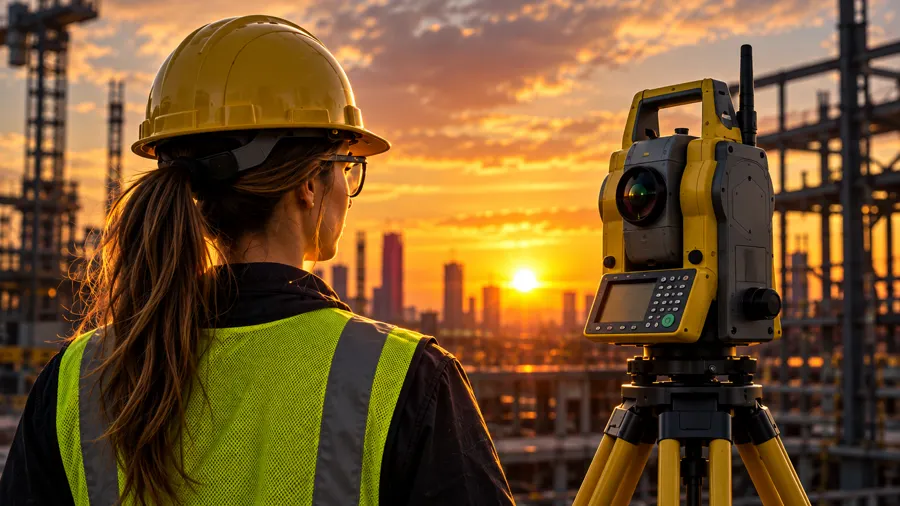
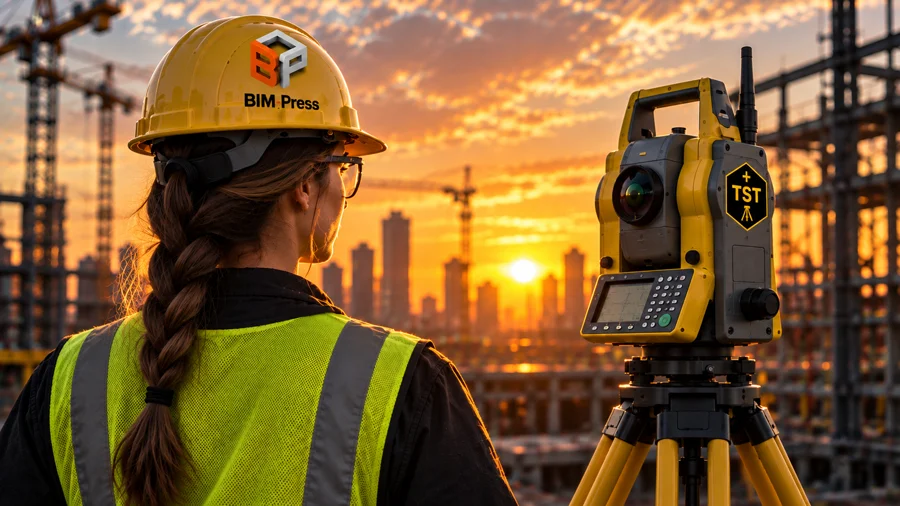
New hero photo, remove old Games section, Instagram link, trust bar wording
- Hero images regenerated from braid_logo.png (BIM Press hard hat, TST
  badge on instrument); phone crop re-centered so both logos stay visible.
- Remove duplicate Games & Training section; More Games and search now
  point to #apps.
- Instagram button links to instagram.com/totalstationtech.
- Trust bar: "Serving MEP professionals".

diff --git a/Website/index.html b/Website/index.html
@@ -331,9 +331,9 @@
   @media (max-width:768px){
     .hero-bg, .hero-aside{display:none;}
     .hero-photo{left:0;right:0;width:100%;aspect-ratio:auto;transform:none;-webkit-mask-image:none;mask-image:none;}
-    .hero-photo img{object-position:36% 30%;}
+    .hero-photo img{object-position:55% 30%;} /* keeps both the hard hat logo and the TST badge on the instrument in frame */
     .hero::after{background:linear-gradient(180deg,rgba(12,12,13,0) 30%,rgba(12,12,13,0.5) 58%,rgba(12,12,13,0.93) 100%);}
-    .hero-inner{min-height:clamp(340px,100vw,600px);padding:24px 20px 22px;align-items:flex-end;}
+    .hero-inner{min-height:clamp(300px,80vw,560px);padding:24px 20px 22px;align-items:flex-end;}
     .hero-copy{flex:1 1 auto;}
     .hero h1{text-transform:none;font-weight:800;font-size:clamp(26px,8.4vw,48px);line-height:1.04;letter-spacing:-0.01em;}
     .hero-rule{width:100%;height:2px;margin:12px 0 10px;clip-path:none;background:var(--yellow);}
@@ -483,15 +483,6 @@
   .card p{margin:0;color:var(--gray);font-size:0.9rem;flex-grow:1;}
   .card .btn{align-self:flex-start;margin-top:4px;}
 
-  /* Games & Training: a hazard stripe on top sets it apart from Apps.
-     Grid fills the row with however many games exist (2 now, 3 across max as more are added). */
-  .games-section{position:relative;background:radial-gradient(ellipse at 90% 0%, rgba(245,197,24,0.08), transparent 55%), var(--black);}
-  .games-section::before{content:"";position:absolute;top:0;left:0;right:0;height:4px;background:var(--stripe);opacity:0.7;}
-  .grid-games{grid-template-columns:repeat(auto-fit, minmax(300px, 1fr));}
-  @media (min-width:1000px){.grid-games{grid-template-columns:repeat(auto-fit, minmax(340px, 1fr));}}
-  @media (max-width:620px){.grid-games{grid-template-columns:1fr;}}
-  .games-section .card{border-color:var(--yellow-dim);padding:30px;}
-  .games-section .card h3{font-size:1.35rem;font-family:'Oswald',system-ui,sans-serif;text-transform:uppercase;letter-spacing:0.04em;}
 
   /* Promo video popup (uses the browser's built-in <dialog>) */
   .video-modal{
@@ -629,8 +620,8 @@
         </div>
         <div class="social-links">
           <a href="https://www.youtube.com/@TotalStationTech" target="_blank" rel="noopener" aria-label="TotalStationTech on YouTube"><svg aria-hidden="true"><use href="#i-youtube"/></svg></a>
-          <!-- [PLACEHOLDER - CONFIRM WITH ROBBIE] Instagram and Facebook page URLs are not known yet; replace href="#" with the real profile links -->
-          <a href="#" class="social-extra" aria-label="TotalStationTech on Instagram (link coming soon)"><svg aria-hidden="true"><use href="#i-instagram"/></svg></a>
+          <a href="https://www.instagram.com/totalstationtech/" target="_blank" rel="noopener" class="social-extra" aria-label="TotalStationTech on Instagram"><svg aria-hidden="true"><use href="#i-instagram"/></svg></a>
+          <!-- [PLACEHOLDER - CONFIRM WITH ROBBIE] Facebook page URL not known yet; replace href="#" with the real profile link -->
           <a href="#" class="social-extra" aria-label="TotalStationTech on Facebook (link coming soon)"><svg aria-hidden="true"><use href="#i-facebook"/></svg></a>
         </div>
       </div>
@@ -668,7 +659,7 @@
             <ul class="dropdown" id="dd-games">
               <li><a href="https://stake-out.netlify.app/" target="_blank" rel="noopener">Stake-Out</a></li>
               <li><a href="https://tribrachgame.netlify.app/" target="_blank" rel="noopener">TriBrach</a></li>
-              <li><a href="#games">More Games</a></li>
+              <li><a href="#apps">More Games</a></li>
             </ul>
           </li>
           <li><button type="button" class="nav-link" data-open-video><svg class="ni" aria-hidden="true"><use href="#i-play"/></svg>Videos</button></li>
@@ -803,39 +794,9 @@
     <ul class="trust-grid">
       <li><svg aria-hidden="true"><use href="#i-hardhat"/></svg><div><h3>Built for<br>the real world</h3><p>Tools, knowledge, and practice for the jobsite.</p></div></li>
       <li><svg aria-hidden="true"><use href="#i-gear"/></svg><div><h3>Field tested<br>technology</h3><p>Proven workflows that save time and reduce rework.</p></div></li>
-      <!-- [PLACEHOLDER - CONFIRM WITH ROBBIE] "Trusted by MEP professionals" is copied from the concept image; confirm you're comfortable making this claim -->
-      <li><svg aria-hidden="true"><use href="#i-people"/></svg><div><h3>Trusted by<br>MEP professionals</h3><p>Contractors. Builders. Designers. Field crews. Just like you.</p></div></li>
+      <li><svg aria-hidden="true"><use href="#i-people"/></svg><div><h3>Serving<br>MEP professionals</h3><p>Contractors. Builders. Designers. Field crews. Just like you.</p></div></li>
       <li><svg aria-hidden="true"><use href="#i-trend"/></svg><div><h3>Learn. Apply. Advance.</h3><p>Practical tools and skills that move your career forward.</p></div></li>
     </ul>
-  </section>
-
-  <!-- ===== GAMES & TRAINING ===== -->
-  <section id="games" class="games-section">
-    <div class="wrap">
-      <div class="section-head">
-        <div class="eyebrow">Games &amp; Training</div>
-        <h2>Practice on your own time. No jobsite required.</h2>
-        <p>Simulators built to make you faster and more confident before you're out in the field.</p>
-      </div>
-      <!-- To add a game: copy one card below and change the name, text, and link -->
-      <div class="grid grid-games">
-
-        <div class="card">
-          <span class="tag tag-live">Live</span>
-          <h3>Stake-Out</h3>
-          <p>Practice. Improve. Get faster. A fun way to master layout.</p>
-          <a href="https://stake-out.netlify.app/" target="_blank" rel="noopener" class="btn btn-primary">Play Now</a>
-        </div>
-
-        <div class="card">
-          <span class="tag tag-live">Live</span>
-          <h3>TriBrach</h3>
-          <p>Learn. Level. Master. The ultimate tribrach simulator.</p>
-          <a href="https://tribrachgame.netlify.app/" target="_blank" rel="noopener" class="btn btn-primary">Play Now</a>
-        </div>
-
-      </div>
-    </div>
   </section>
 
   <!-- ===== SHOP ===== -->
@@ -1125,9 +1086,9 @@
     { name: "PDF-Inspect",     keywords: ["pdf inspect", "metadata"],                     anchor: "#apps" },
     { name: "Calculator",      keywords: ["calculator", "field calculator", "feet inches"], anchor: "#apps" },
     { name: "CSV Converter",   keywords: ["csv", "csv converter"],                        anchor: "#apps" },
-    { name: "Games",           keywords: ["games", "training"],                          anchor: "#games" },
-    { name: "Stake-Out",       keywords: ["stakeout", "stake out", "staking"],            anchor: "#games" },
-    { name: "TriBrach",        keywords: ["tribrach", "leveling"],                        anchor: "#games" },
+    { name: "Games",           keywords: ["games", "training"],                          anchor: "#apps" },
+    { name: "Stake-Out",       keywords: ["stakeout", "stake out", "staking"],            anchor: "#apps" },
+    { name: "TriBrach",        keywords: ["tribrach", "leveling"],                        anchor: "#apps" },
     { name: "Videos",          keywords: ["video", "videos", "ad"],                       action: "video" },
     { name: "Shop",            keywords: ["shop", "gear"],                                anchor: "#shop" },
     { name: "Learn",           keywords: ["learn"],                                       anchor: "#learn" },
